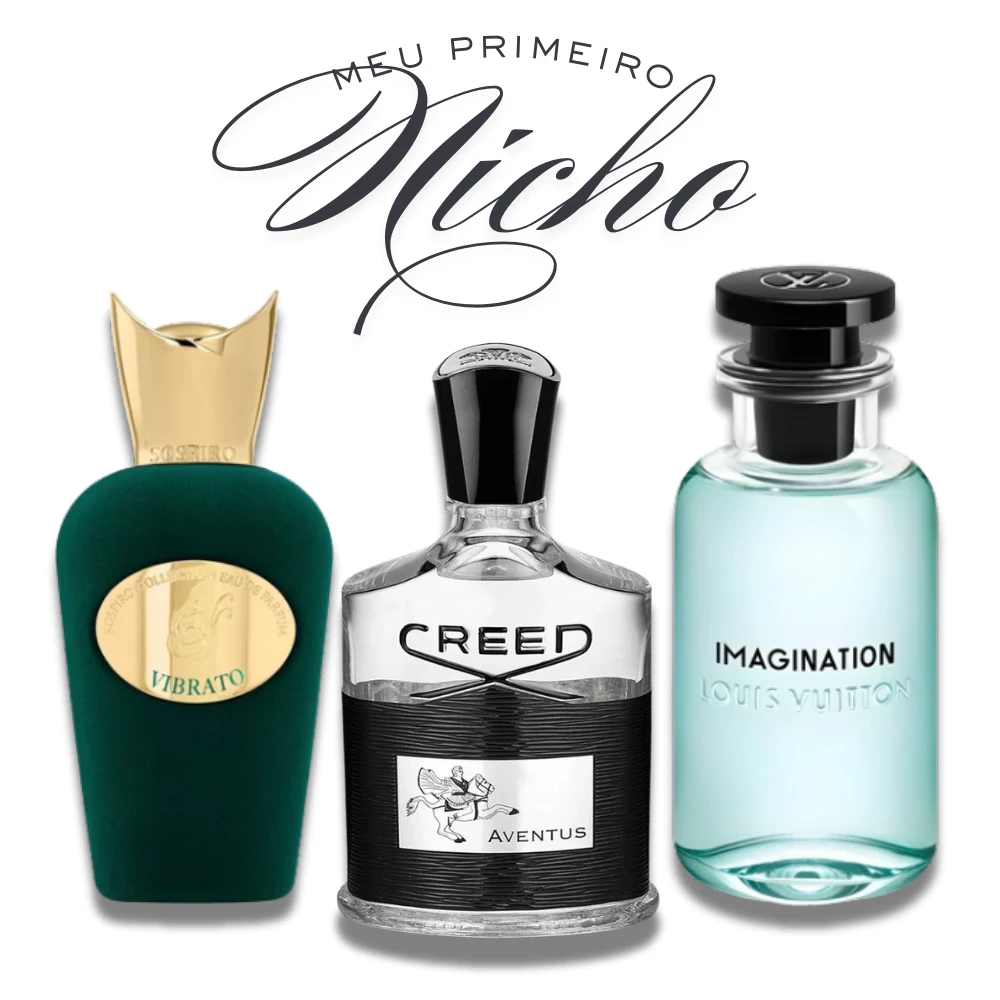
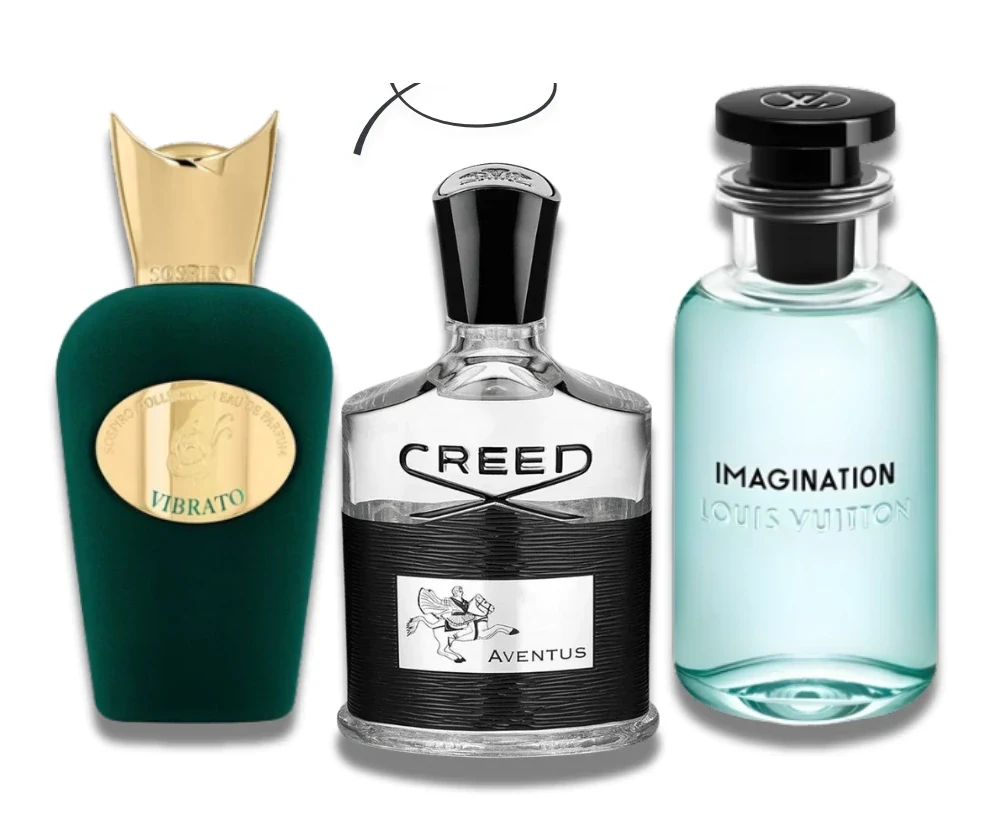
Adiciona decants automáticos, novidades, barra de anúncio e melhorias visuais
- Aba Decants no catálogo: todo perfume disponível e com preço gera
  decant de 10 ml a 15% do valor do frasco cheio, automaticamente
  (nome, preço e foto herdados; entra no carrinho e no WhatsApp)
- Quick view ganha 'Quem gosta desse vai amar' com 3 relacionados
  clicáveis (mesma família ou marca)
- Home ganha seção 'Novidades da semana' alimentada pelo selo Novo
- Barra de anúncio fina no topo das três páginas, some ao rolar
- Fotos dos produtos unificadas com halo de areia e mix-blend-mode
- Remove o texto 'Meu Primeiro Nicho' da imagem do card Nicho

diff --git a/app.js b/app.js
@@ -342,6 +342,41 @@ document.querySelectorAll("[data-count]").forEach(el=>{
   el.textContent = n > 0 ? `${n} ${n===1?"perfume":"perfumes"}` : "Sob encomenda";
 });
 
+/* =====================================================================
+   ✨  NOVIDADES DA SEMANA (home) — alimentada pelo selo "Novo"/"Novidade"
+   ===================================================================== */
+const novGrid = document.getElementById("novGrid");
+if(novGrid){
+  const novos = PERFUMES
+    .filter(p => estaDisponivel(p) && (p.selo==="Novo" || p.selo==="Novidade"))
+    .slice(0, 4);
+  if(novos.length){
+    novGrid.innerHTML = novos.map(p=>`
+      <button type="button" class="nov-card reveal" data-qv="${p.nome}" aria-label="Ver detalhes de ${p.nome}">
+        <span class="nov-tag">Novo</span>
+        <span class="nov-thumb">${frascoVisual(p)}</span>
+        ${p.marca ? `<span class="nov-brand">${p.marca}</span>` : ""}
+        <span class="nov-name">${p.nome}</span>
+        <span class="nov-price">${precoTxt(p)}</span>
+      </button>`).join("");
+    novGrid.querySelectorAll(".reveal").forEach(el=>observeReveal(el));
+    novGrid.addEventListener("click", e=>{
+      const b = e.target.closest("[data-qv]");
+      if(b && typeof openQuickView === "function") openQuickView(b.dataset.qv);
+    });
+  } else {
+    const sec = document.getElementById("novidades");
+    if(sec) sec.hidden = true;
+  }
+}
+
+/* barra de anúncio: some suavemente quando a página rola */
+if(document.querySelector(".announce")){
+  const onScrollAnnounce = ()=> document.body.classList.toggle("past-top", window.scrollY > 24);
+  window.addEventListener("scroll", onScrollAnnounce, { passive:true });
+  onScrollAnnounce();
+}
+
 const familiasUnicas = Array.from(new Set(PERFUMES.map(p=>p.familia)));
 const GRUPOS = [
   { key:"genero",  label:"Gênero",          opts:["Todos","Masculino","Feminino","Unissex"] },
@@ -361,11 +396,31 @@ let tipoAtivo = null;         // "bodyspray"
   const c = q.get("colecao");
   if(c && COLECOES[c] && c!=="todos") colecaoAtiva = c;
   if(q.get("marca")) marcaAtiva = q.get("marca");
-  if(q.get("tipo")==="bodyspray") tipoAtivo = "bodyspray";
+  if(["bodyspray","decants"].includes(q.get("tipo"))) tipoAtivo = q.get("tipo");
 }
 
 const ehBodySpray = p => /body spray/i.test(p.nome);
 const marcaBase = p => (p.marca||"").replace(/\s*Pride$/i,"").trim();   // Lattafa Pride conta como Lattafa
+
+/* =====================================================================
+   🧪  DECANTS — gerados automaticamente a partir do catálogo
+   Regra: todo perfume disponível e com preço vira decant de 10 ml
+   custando 15% do valor do frasco cheio (arredondado). Ao adicionar
+   um perfume novo em PERFUMES, o decant aparece sozinho na aba.
+   ===================================================================== */
+const DECANT_ML = 10;
+const DECANT_FATOR = 0.15;
+const podeDecant = p => estaDisponivel(p) && temPreco(p) && !ehBodySpray(p);
+const DECANTS = PERFUMES.filter(podeDecant).map(p => ({
+  ...p,
+  nome: `${p.nome} · Decant ${DECANT_ML}ml`,
+  base: p.nome,
+  preco: Math.round(p.preco * DECANT_FATOR),
+  tamanho: `${DECANT_ML} ml · Decant`,
+  selo: "Decant",
+  decant: true,
+  desc: `Decant de ${DECANT_ML} ml do ${p.marca ? p.marca + " " : ""}${p.nome} — a mesma fragrância original, fracionada para você conhecer antes de investir no frasco cheio.`
+}));
 
 const colNav = document.getElementById("colNav");
 const colBrands = document.getElementById("colBrands");
@@ -373,7 +428,9 @@ const colBrands = document.getElementById("colBrands");
 function syncColNav(){
   if(!colNav) return;
   colNav.querySelectorAll(".col-tab").forEach(t=>{
-    const on = !marcaAtiva && !tipoAtivo && t.dataset.col===colecaoAtiva;
+    const on = t.dataset.tipo
+      ? t.dataset.tipo===tipoAtivo
+      : (!marcaAtiva && !tipoAtivo && t.dataset.col===colecaoAtiva);
     t.classList.toggle("active", on);
     t.setAttribute("aria-pressed", String(on));
   });
@@ -414,6 +471,8 @@ function setTipo(t, push=true){
 if(colNav){
   const nEl = colNav.querySelector('[data-tab-count="todos"]');
   if(nEl){ const n = PERFUMES.length; nEl.textContent = `${n} ${n===1?"fragrância":"fragrâncias"}`; }
+  const dEl = colNav.querySelector('[data-tab-count="decants"]');
+  if(dEl){ const n = DECANTS.length; dEl.textContent = `${n} ${n===1?"opção":"opções"} · ${DECANT_ML} ml`; }
 
   // chips de marca gerados a partir do catálogo (novas marcas aparecem sozinhas)
   if(colBrands){
@@ -436,7 +495,7 @@ if(colNav){
 
   colNav.addEventListener("click", e=>{
     const tab = e.target.closest(".col-tab");
-    if(tab){ setColecao(tab.dataset.col); return; }
+    if(tab){ tab.dataset.tipo ? setTipo(tab.dataset.tipo) : setColecao(tab.dataset.col); return; }
     const b = e.target.closest(".col-brand");
     if(b){ b.dataset.marca ? setMarca(b.dataset.marca) : setTipo(b.dataset.tipo); }
   });
@@ -553,7 +612,8 @@ function passaFiltros(p){
 
 function renderGrid(){
   if(!grid) return;
-  let list = ordenar(PERFUMES.filter(passaFiltros).filter(passaBusca));
+  const base = tipoAtivo==="decants" ? DECANTS : PERFUMES;
+  let list = ordenar(base.filter(passaFiltros).filter(passaBusca));
   const total = list.length;
   const lim = parseInt(grid.dataset.limit||"0", 10);   // prévia da home
   if(lim>0) list = list.slice(0, lim);
@@ -704,7 +764,7 @@ const cartSend     = document.getElementById("cartSend");
 let produtosExtras = {};
 try{ produtosExtras = JSON.parse(localStorage.getItem("duna_cart_products")||"{}"); }catch(e){ produtosExtras={}; }
 const salvarProdutosExtras = ()=>{ try{ localStorage.setItem("duna_cart_products", JSON.stringify(produtosExtras)); }catch(e){} };
-const porNome = Object.fromEntries([...PERFUMES, ...Object.values(produtosExtras)].map(p=>[p.nome,p]));
+const porNome = Object.fromEntries([...PERFUMES, ...DECANTS, ...Object.values(produtosExtras)].map(p=>[p.nome,p]));
 
 function produtoSkincareDoCard(card){
   if(!card) return null;
@@ -1066,6 +1126,7 @@ qvWrap.innerHTML = `
             ${WHATSAPP_ICON}<span>Pedir agora</span>
           </a>
         </div>
+        <div class="qv-related" id="qvRelated"></div>
       </div>
     </div>
   </div>`;
@@ -1098,6 +1159,27 @@ function openQuickView(nome){
   const qvWa = document.getElementById("qvWa");
   qvWa.href = disponivel ? waProduto(p) : waAvisoEstoque(nomeCompleto(p));
   qvWa.innerHTML = `${WHATSAPP_ICON}<span>${disponivel ? "Pedir agora" : "Avise-me quando voltar"}</span>`;
+  // "quem gosta desse vai amar" — mesma família ou mesma marca, disponíveis primeiro
+  const baseNome = p.base || p.nome;
+  const rel = PERFUMES
+    .filter(x => x.nome!==baseNome && (x.familia===p.familia || (p.marca && x.marca===p.marca)))
+    .sort((a,b)=>{
+      const disp = Number(estaDisponivel(b)) - Number(estaDisponivel(a));
+      if(disp) return disp;
+      return Number(b.familia===p.familia) - Number(a.familia===p.familia);
+    })
+    .slice(0,3);
+  document.getElementById("qvRelated").innerHTML = rel.length ? `
+    <p class="qv-rel-title">Quem gosta desse <em>vai amar</em></p>
+    <div class="qv-rel-grid">
+      ${rel.map(r=>`
+      <button type="button" class="qv-rel-card" data-qv="${r.nome}" aria-label="Ver detalhes de ${r.nome}">
+        <span class="qv-rel-thumb">${frascoVisual(r)}</span>
+        <span class="qv-rel-name">${r.nome}</span>
+        <span class="qv-rel-price">${estaDisponivel(r) ? precoTxt(r) : "Esgotado"}</span>
+      </button>`).join("")}
+    </div>` : "";
+
   qvEl.setAttribute("aria-label", `Detalhes de ${p.nome}`);
   qvEl.classList.add("open"); qvOverlay.classList.add("open");
   qvEl.setAttribute("aria-hidden","false");
@@ -1115,6 +1197,11 @@ qvOverlay.addEventListener("click", closeQuickView);
 document.addEventListener("keydown", e=>{ if(e.key==="Escape" && qvEl.classList.contains("open")) closeQuickView(); });
 document.getElementById("qvAdd").addEventListener("click", ()=>{
   if(qvNome){ addToCart(qvNome); closeQuickView(); }
+});
+// clicar num relacionado troca o quick view para ele
+document.getElementById("qvRelated").addEventListener("click", e=>{
+  const b = e.target.closest("[data-qv]");
+  if(b) openQuickView(b.dataset.qv);
 });
 
 /* =====================================================================

diff --git a/styles.css b/styles.css
@@ -1478,3 +1478,128 @@ a, button{ touch-action:manipulation; }
   .col-hero:hover, .col-arch:hover, .col-chip:hover{ transform:none; }
   .col-hero:hover .col-art img, .col-arch:hover .col-arch-window .col-art img{ transform:scale(1.03); }
 }
+
+/* =====================================================================
+   📣  BARRA DE ANÚNCIO — fina, dourada, some ao rolar
+   ===================================================================== */
+.announce{
+  position:fixed; top:0; left:0; right:0; z-index:901;
+  height:34px; display:flex; align-items:center; justify-content:center; gap:14px;
+  background:linear-gradient(90deg, #1d1710, #3a2e18 50%, #1d1710);
+  color:var(--ouro-claro);
+  font-family:var(--sans); font-size:.6rem; font-weight:500;
+  letter-spacing:.24em; text-transform:uppercase;
+  transition:transform .5s var(--ease);
+}
+.announce i{ width:4px; height:4px; background:var(--ouro); transform:rotate(45deg); opacity:.7; }
+body.past-top .announce{ transform:translateY(-100%); }
+header.nav{ top:34px; }
+body.past-top header.nav{ top:0; }
+@media (max-width:640px){
+  .announce{ font-size:.53rem; letter-spacing:.16em; gap:10px; }
+  .announce .an-3{ display:none; }
+}
+
+/* =====================================================================
+   ✨  NOVIDADES DA SEMANA — trilho de recém-chegados
+   ===================================================================== */
+.nov-grid{
+  display:grid; grid-template-columns:repeat(4,minmax(0,1fr));
+  gap:18px; margin-top:40px;
+}
+.nov-card{
+  position:relative; text-align:center;
+  background:var(--branco-puro); border:1px solid var(--areia); border-radius:14px;
+  padding:26px 18px 22px;
+  transition:transform .5s var(--ease), box-shadow .5s var(--ease), border-color .5s;
+}
+.nov-card:hover{
+  transform:translateY(-6px);
+  border-color:rgba(176,138,60,.5);
+  box-shadow:0 30px 55px -26px rgba(133,102,41,.35);
+}
+.nov-tag{
+  position:absolute; top:14px; left:14px;
+  font-family:var(--sans); font-size:.55rem; font-weight:600;
+  letter-spacing:.22em; text-transform:uppercase;
+  color:var(--branco-puro); background:var(--ouro);
+  border-radius:20px; padding:4px 11px;
+}
+.nov-thumb{
+  display:flex; align-items:flex-end; justify-content:center;
+  height:150px; margin:14px 0 16px;
+  transition:transform .6s var(--ease);
+}
+.nov-thumb img, .nov-thumb svg{ height:100%; width:auto; object-fit:contain;
+  filter:drop-shadow(0 12px 20px rgba(38,34,28,.2)); }
+.nov-card:hover .nov-thumb{ transform:translateY(-4px) scale(1.04); }
+.nov-brand{
+  display:block; font-family:var(--sans); font-size:.58rem; font-weight:600;
+  letter-spacing:.24em; text-transform:uppercase; color:var(--ouro-fundo);
+}
+.nov-name{
+  display:block; font-family:var(--serif); font-weight:600; font-size:1.25rem;
+  line-height:1.15; color:var(--grafite); margin-top:3px;
+}
+.nov-price{
+  display:block; margin-top:8px;
+  font-family:var(--serif); font-weight:700; color:var(--ouro-fundo); font-size:1.05rem;
+}
+@media (max-width:900px){
+  .nov-grid{
+    display:flex; gap:14px; margin:32px -28px 0; padding:2px 28px 12px;
+    overflow-x:auto; scroll-snap-type:x proximity;
+    -webkit-overflow-scrolling:touch; scrollbar-width:none;
+  }
+  .nov-grid::-webkit-scrollbar{ display:none; }
+  .nov-card{ flex:0 0 62vw; max-width:250px; scroll-snap-align:start; }
+}
+
+/* =====================================================================
+   💛  QUICK VIEW — "quem gosta desse vai amar"
+   ===================================================================== */
+.qv-related{ margin-top:26px; padding-top:20px; border-top:1px solid var(--areia); }
+.qv-rel-title{
+  font-family:var(--sans); font-size:.62rem; font-weight:500;
+  letter-spacing:.28em; text-transform:uppercase; color:var(--ouro-fundo);
+  margin-bottom:14px;
+}
+.qv-rel-title em{ font-style:italic; font-family:var(--serif); font-size:.95rem;
+  letter-spacing:.02em; text-transform:none; }
+.qv-rel-grid{ display:grid; grid-template-columns:repeat(3,minmax(0,1fr)); gap:10px; }
+.qv-rel-card{
+  text-align:center; background:var(--branco-q); border:1px solid var(--areia);
+  border-radius:10px; padding:12px 8px 11px;
+  transition:border-color .35s var(--ease), transform .35s var(--ease), box-shadow .35s;
+}
+.qv-rel-card:hover{
+  border-color:rgba(176,138,60,.55); transform:translateY(-3px);
+  box-shadow:0 16px 30px -18px rgba(133,102,41,.4);
+}
+.qv-rel-thumb{ display:flex; align-items:flex-end; justify-content:center; height:64px; margin-bottom:8px; }
+.qv-rel-thumb img, .qv-rel-thumb svg{ height:100%; width:auto; object-fit:contain; }
+.qv-rel-name{
+  font-family:var(--serif); font-weight:600; font-size:.92rem;
+  line-height:1.12; color:var(--grafite);
+  overflow:hidden; display:-webkit-box; -webkit-line-clamp:2; -webkit-box-orient:vertical;
+}
+.qv-rel-price{
+  display:block; margin-top:4px;
+  font-family:var(--sans); font-size:.68rem; font-weight:500; color:var(--ouro-fundo);
+}
+@media (max-width:560px){ .qv-rel-thumb{ height:52px; } .qv-rel-name{ font-size:.84rem; } }
+
+/* =====================================================================
+   🏜  FOTOS UNIFICADAS — fundo branco funde na areia, luz de prateleira
+   ===================================================================== */
+.bottle::before{
+  content:""; position:absolute; inset:auto 8% 2px 8%; height:78%;
+  border-radius:12px;
+  background:
+    radial-gradient(120% 85% at 50% 100%, rgba(230,221,202,.6), rgba(246,240,225,.25) 62%, transparent 82%);
+  pointer-events:none;
+}
+.bottle img{ position:relative; mix-blend-mode:multiply; }
+.nov-thumb, .qv-rel-thumb{ position:relative; }
+.nov-thumb img, .qv-rel-thumb img{ mix-blend-mode:multiply; }
+.qv-bottle img{ mix-blend-mode:multiply; }

diff --git a/index.html b/index.html
@@ -24,6 +24,11 @@
 </head>
 <body>
 
+<!-- ===================== BARRA DE ANÚNCIO ===================== -->
+<div class="announce" role="note">
+  <span>Entrega para todo o Brasil</span><i aria-hidden="true"></i><span>Pedido fácil pelo WhatsApp</span><i aria-hidden="true" class="an-3"></i><span class="an-3">Curadoria honesta</span>
+</div>
+
 <!-- ===================== PRÉ-LOADER ===================== -->
 <div id="preloader">
   <img class="pre-lockup" src="assets/logo-lockup.png" alt="Duna Fragrâncias" />
@@ -168,11 +173,11 @@
       <!-- Arco: Nicho -->
       <a class="col-card col-arch reveal" data-d="2" href="catalogo.html?colecao=nicho" aria-label="Ver perfumes de nicho">
         <div class="col-arch-window">
-          <div class="col-art"><img src="assets/col-nicho.webp" alt="" loading="lazy" style="object-position:center 72%" /></div>
+          <div class="col-art"><img src="assets/col-nicho.webp" alt="" loading="lazy" /></div>
           <span class="col-arch-ring" aria-hidden="true"></span>
         </div>
         <div class="col-arch-info">
-          <p class="col-kicker">Meu primeiro nicho</p>
+          <p class="col-kicker">Casas autorais e raras</p>
           <h3><em>Nicho</em></h3>
           <span class="col-cta"><span class="col-count" data-count="nicho"></span><i class="col-arrow" aria-hidden="true">→</i></span>
         </div>
@@ -191,6 +196,19 @@
         </div>
       </a>
     </div>
+  </div>
+</section>
+
+<!-- ===================== NOVIDADES DA SEMANA ===================== -->
+<section class="section-pad novidades" id="novidades">
+  <div class="wrap">
+    <div class="section-head reveal">
+      <div class="diamond"><i></i></div>
+      <p class="eyebrow">Recém-chegados</p>
+      <h2>Novidades da <span class="gold">semana</span></h2>
+      <p>As últimas fragrâncias a entrar na curadoria — toque para ver os detalhes.</p>
+    </div>
+    <div class="nov-grid" id="novGrid"></div>
   </div>
 </section>
 

diff --git a/catalogo.html b/catalogo.html
@@ -20,6 +20,11 @@
 </head>
 <body class="page-light catalog-page">
 
+<!-- ===================== BARRA DE ANÚNCIO ===================== -->
+<div class="announce" role="note">
+  <span>Entrega para todo o Brasil</span><i aria-hidden="true"></i><span>Pedido fácil pelo WhatsApp</span><i aria-hidden="true" class="an-3"></i><span class="an-3">Curadoria honesta</span>
+</div>
+
 <!-- ===================== PRÉ-LOADER ===================== -->
 <div id="preloader">
   <img class="pre-lockup" src="assets/logo-lockup.png" alt="Duna Fragrâncias" />
@@ -99,6 +104,11 @@
         <button class="col-tab" data-col="nicho" type="button" aria-pressed="false">
           <em>Nicho</em>
           <small>Sob encomenda</small>
+        </button>
+        <span class="col-tab-sep" aria-hidden="true"></span>
+        <button class="col-tab" data-tipo="decants" type="button" aria-pressed="false">
+          <em>Decants</em>
+          <small><span data-tab-count="decants"></span></small>
         </button>
       </div>
       <div class="col-brands" id="colBrands">

diff --git a/skincare.html b/skincare.html
@@ -20,6 +20,11 @@
 </head>
 <body class="page-light">
 
+<!-- ===================== BARRA DE ANÚNCIO ===================== -->
+<div class="announce" role="note">
+  <span>Entrega para todo o Brasil</span><i aria-hidden="true"></i><span>Pedido fácil pelo WhatsApp</span><i aria-hidden="true" class="an-3"></i><span class="an-3">Curadoria honesta</span>
+</div>
+
 <!-- ===================== PRÉ-LOADER ===================== -->
 <div id="preloader">
   <img class="pre-lockup" src="assets/logo-lockup.png" alt="Duna Fragrâncias" />
